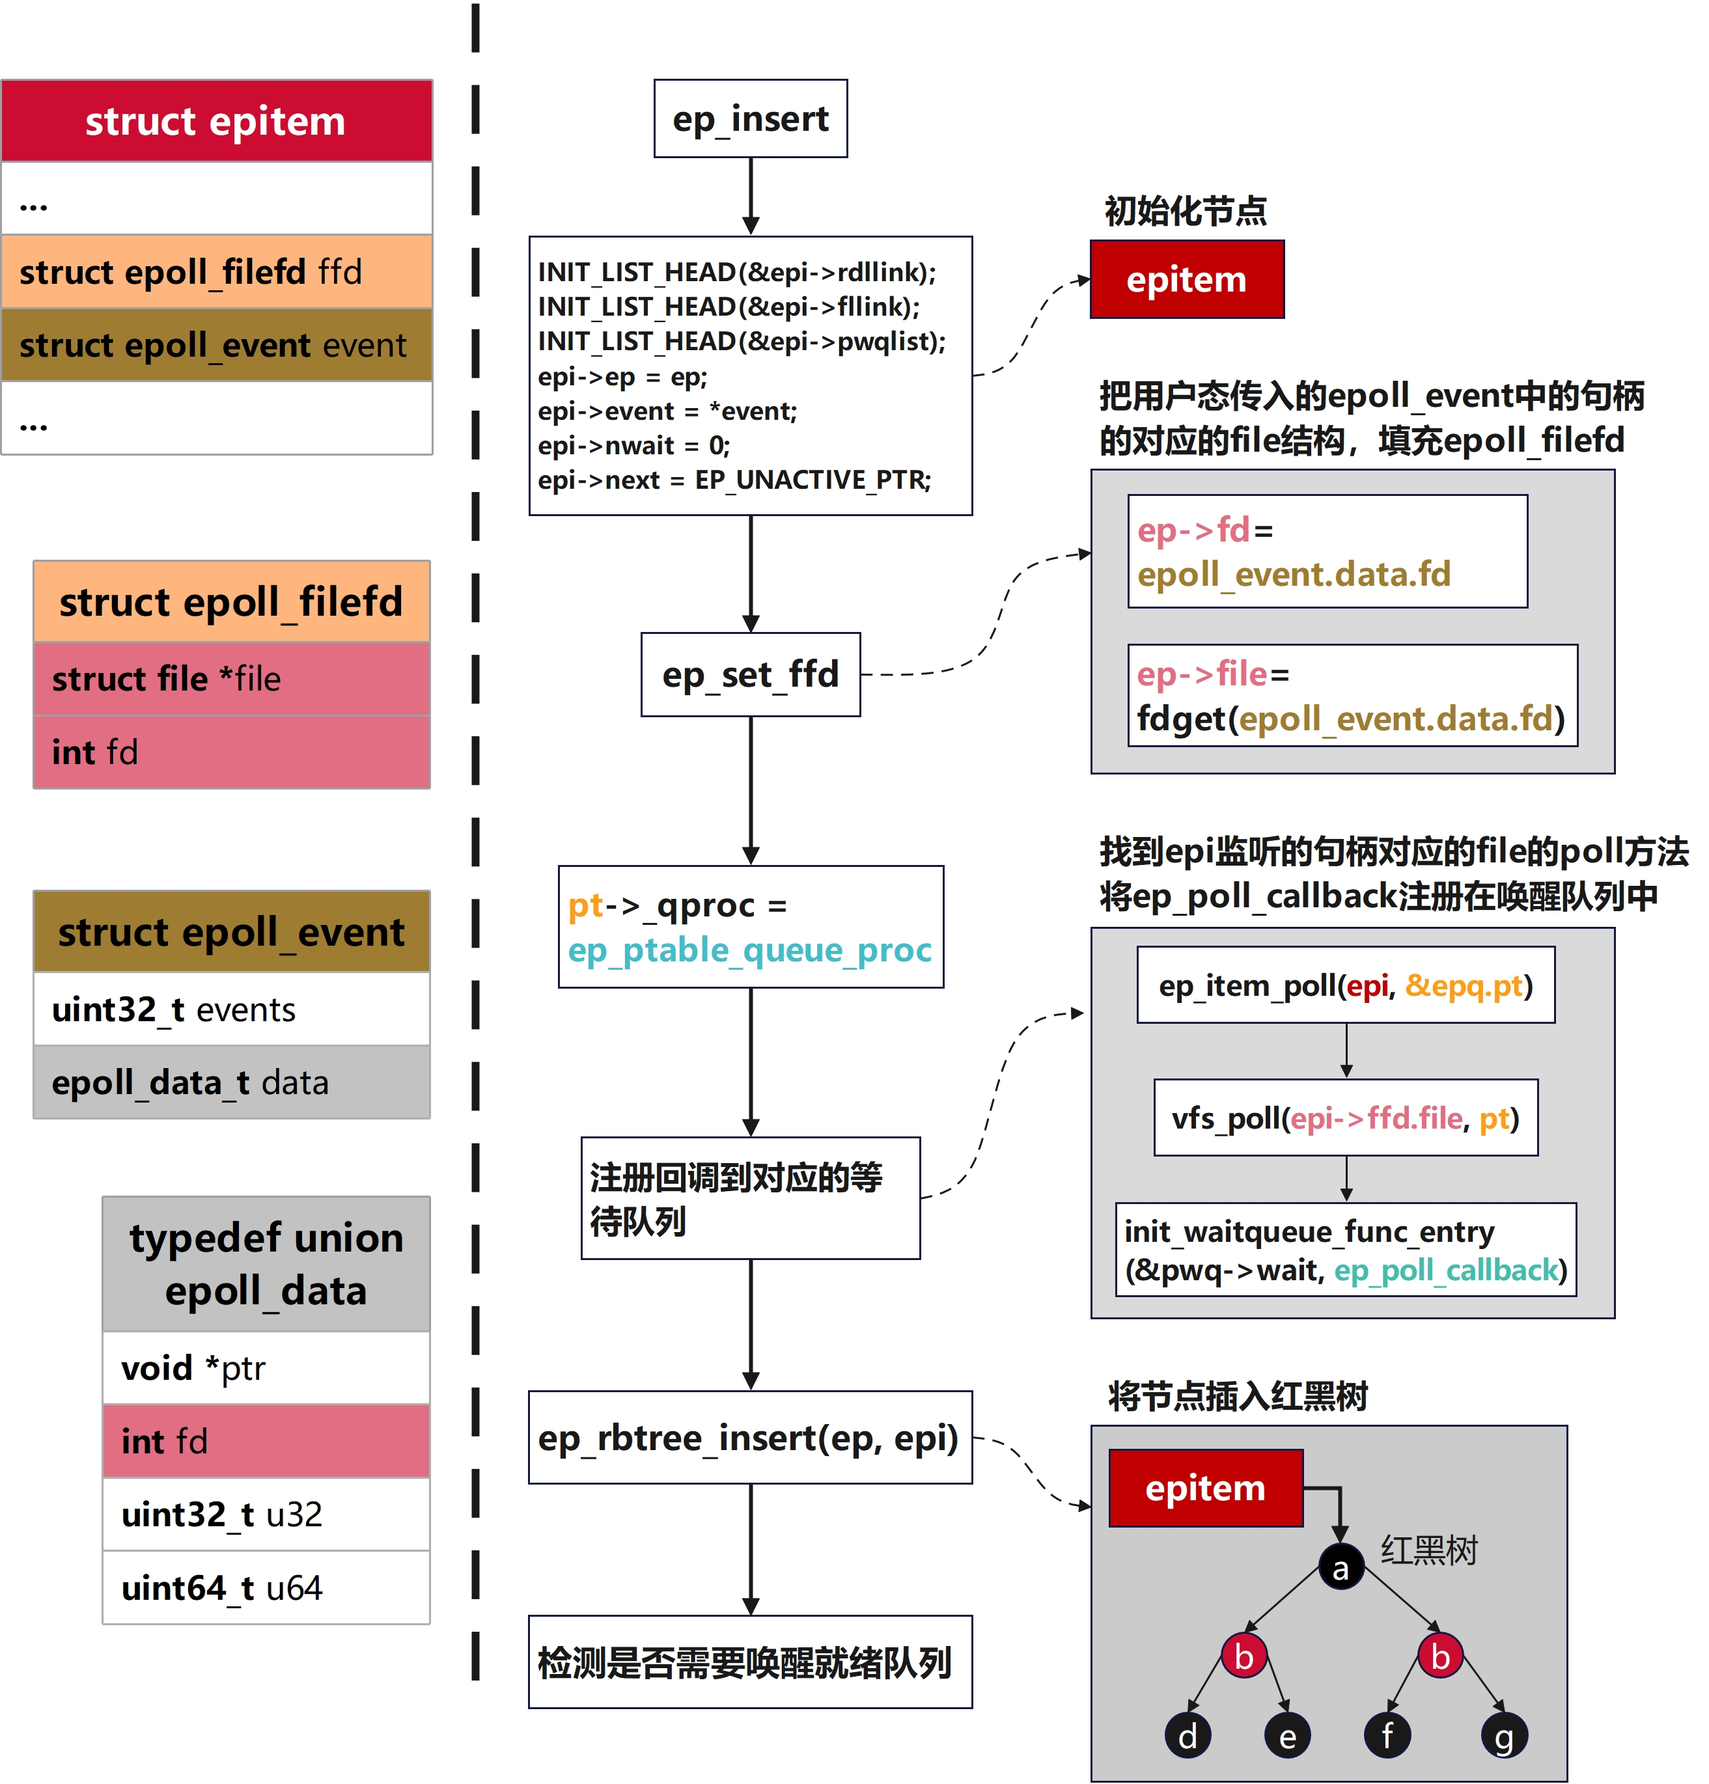
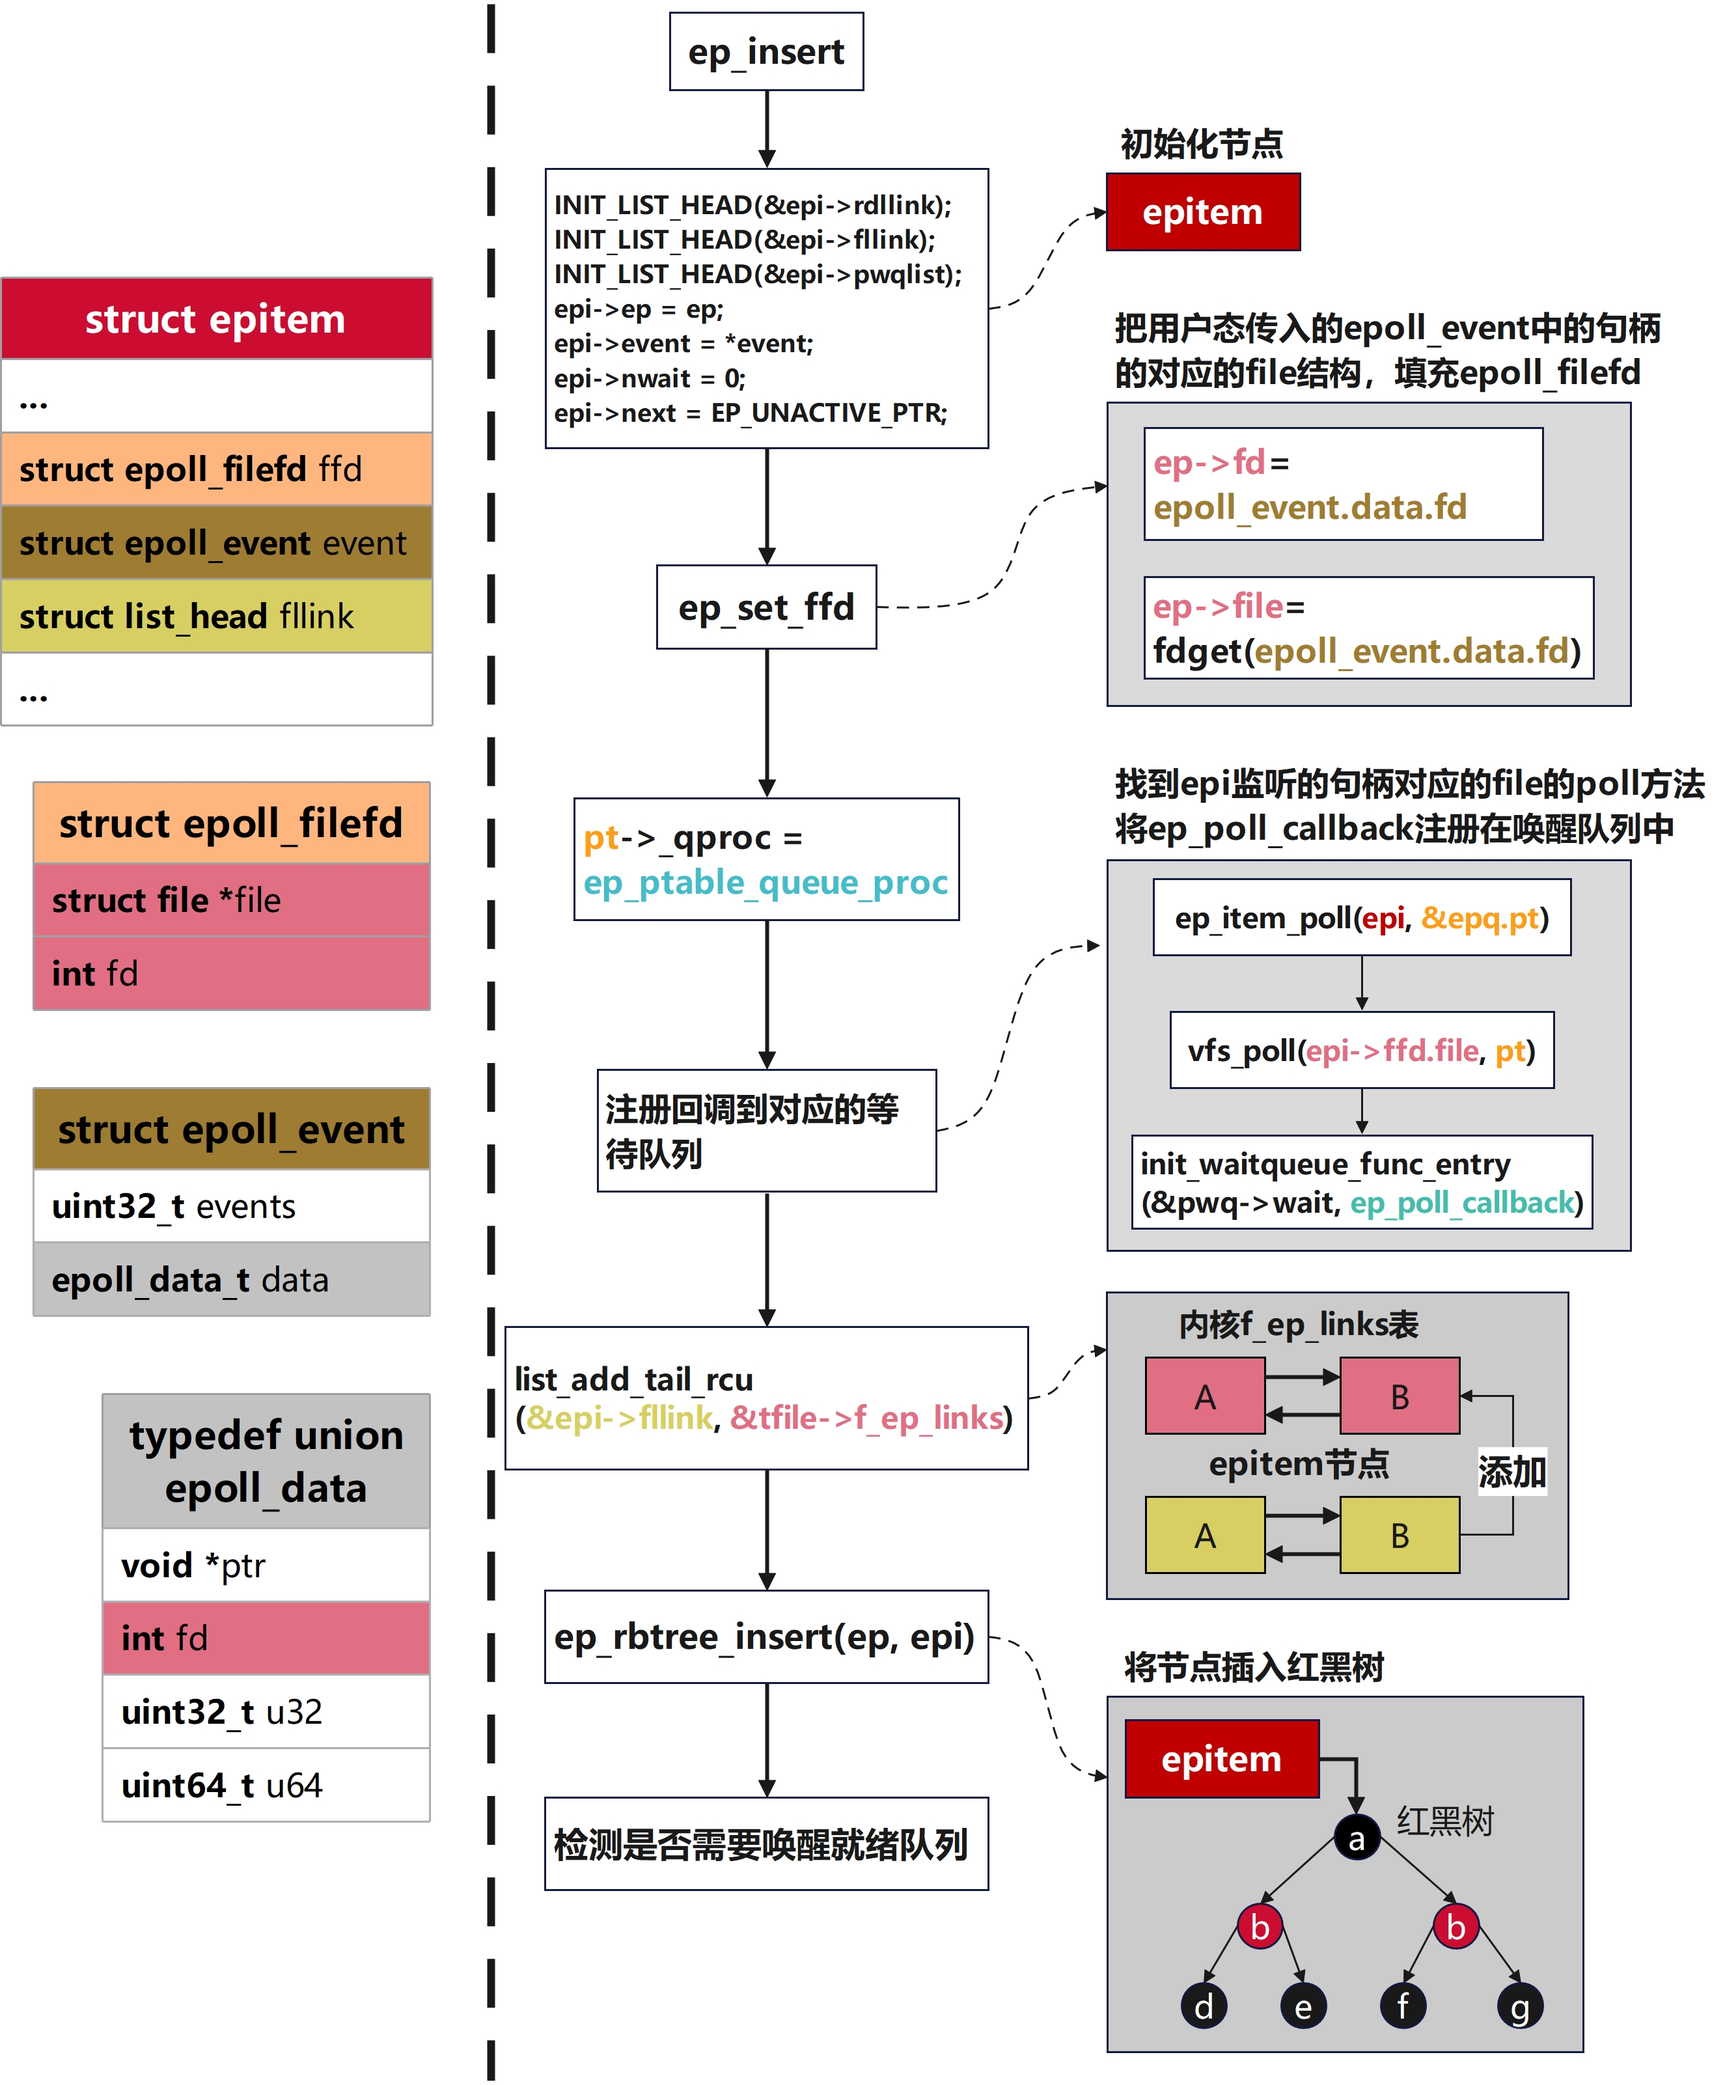
更新

diff --git a/06_Linux/03_IO模型/01_IO多路复用模型/02_epoll原理分析/01_epoll接口原理分析.md b/06_Linux/03_IO模型/01_IO多路复用模型/02_epoll原理分析/01_epoll接口原理分析.md
@@ -1565,6 +1565,10 @@ static int ep_insert(struct eventpoll *ep, const struct epoll_event *event,
 	 */
 	revents = ep_item_poll(epi, &epq.pt, 1);
 
+    /**
+     * epitem通过epi->fllink挂到被监控文件 tfile->f_ep_link即epi->ffd.file上当这个struct file被关闭时
+     * 内核能顺着f_ep_links找到所有还在监听它的epoll项，把它们卸掉
+     */
 	list_add_tail_rcu(&epi->fllink, &tfile->f_ep_links);
 
 	/* 将节点插入红黑树中 */
@@ -1610,7 +1614,8 @@ static int ep_insert(struct eventpoll *ep, const struct epoll_event *event,
 
 1. 创建和初始化`epitem`节点，将`poll_table->_qproc`设置为`ep_ptable_queue_proc`
 2. 把新`epitem`节点添加到红黑树中，把新`epitem`接到目标文件的`poll/waitqueue`队列上，这一步之后新事件就开始检测新事件了
-3. 检测有没有新的事件，如果有则唤醒就绪队列
+3. 把`epi`节点添加到内核`f_ep_links`表中，方便内核管理，避免出现悬垂指针
+4. 检测有没有新的事件，如果有则唤醒就绪队列
 
 <img src="./img/ep_insert主流程.jpg" alt="ep_insert主流程" />
 
@@ -1631,6 +1636,7 @@ static int ep_insert(struct eventpoll *ep, const struct epoll_event *event,
 > 笔者注：除注释外，所有代码均未删改
 
 ```c
+// linux-5.4/fs/eventpoll.c
 static int ep_insert(struct eventpoll *ep, const struct epoll_event *event,
              struct file *tfile, int fd, int full_check)
 {
@@ -1775,6 +1781,7 @@ static int ep_modify(struct eventpoll *ep, struct epitem *epi,
 > 笔者注：除注释外，所有代码均未删改
 
 ```c
+// linux-5.4/fs/eventpoll.c
 static struct epitem *ep_find(struct eventpoll *ep, struct file *file, int fd)
 {
     int kcmp;
